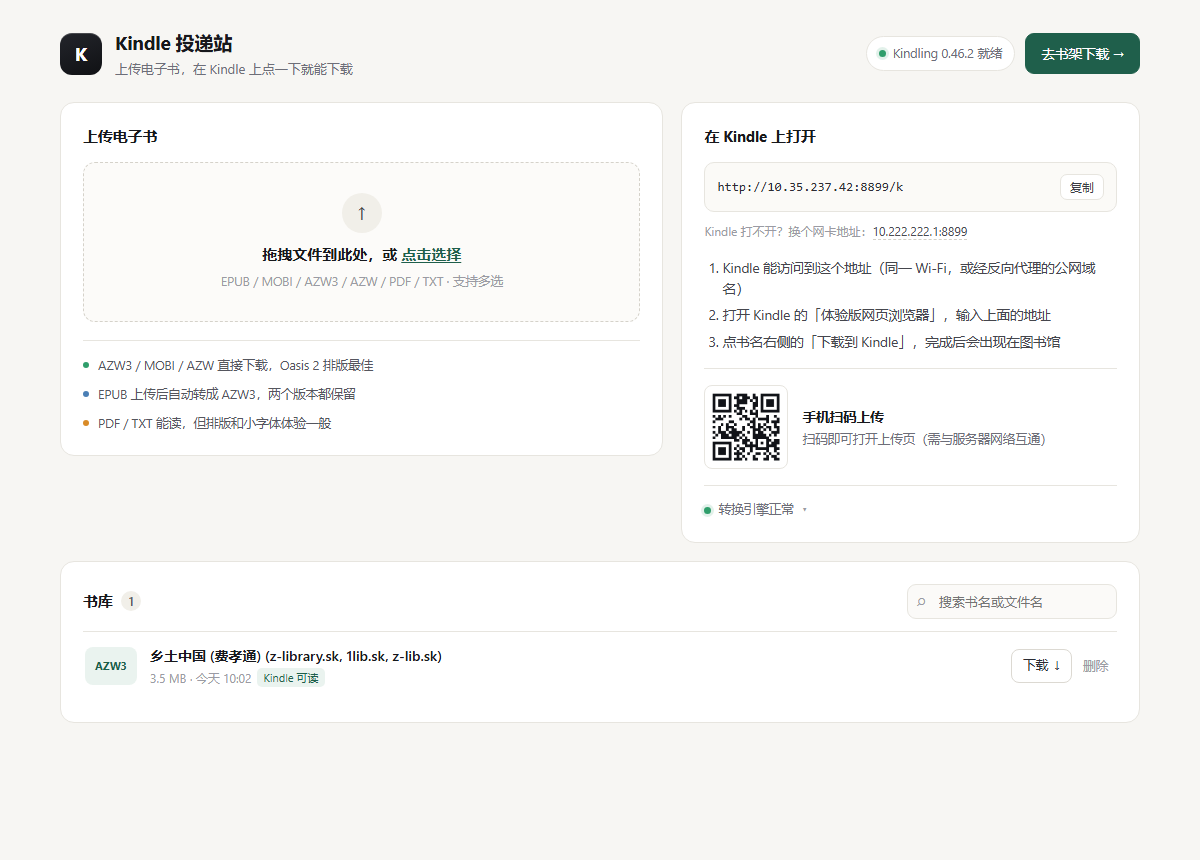
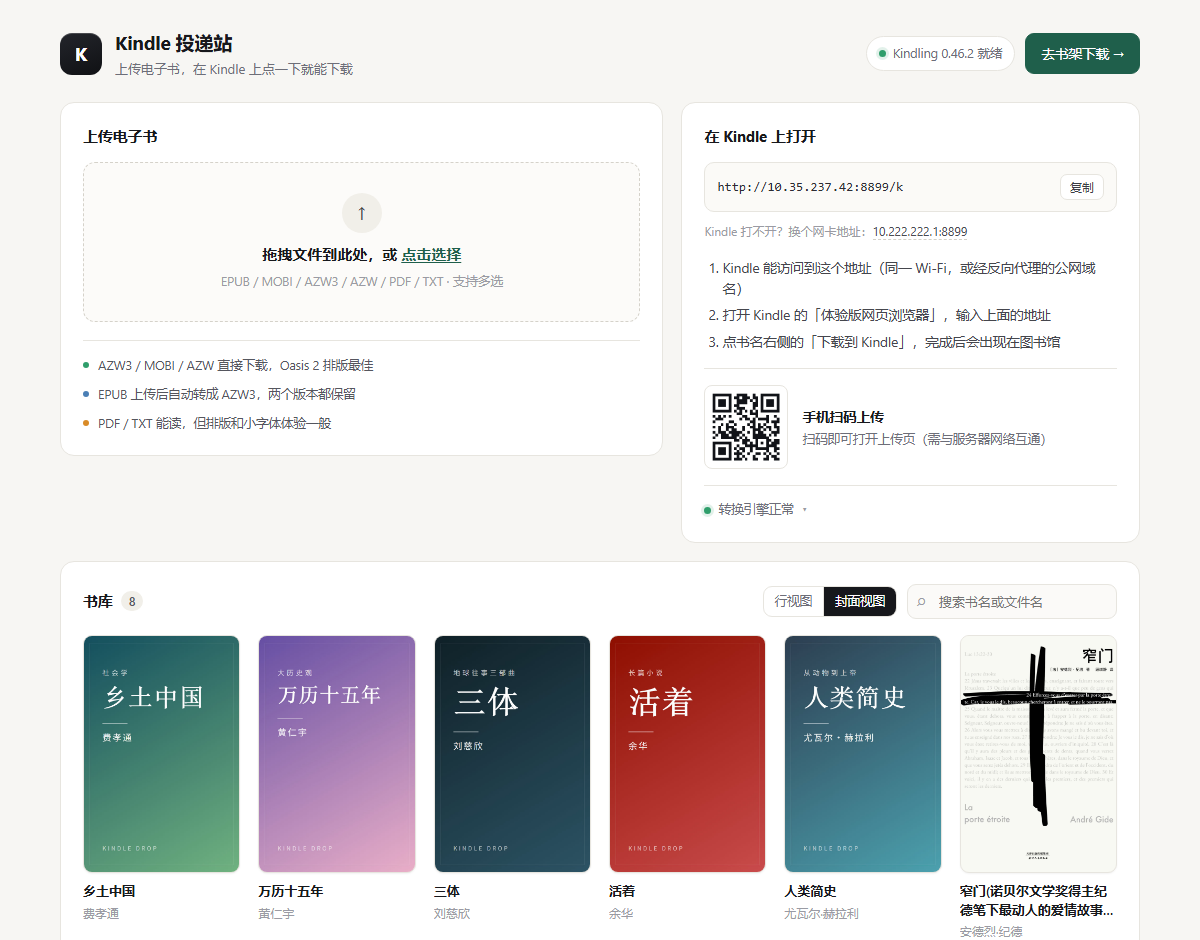
fix: Kindle 书架显示书内书名，不再是上传文件名
- 新增 displayTitle()：优先用书里解析出的书名，回落到文件名，顺带剥掉 (z-library.sk…) 广告尾
- 书架页、批量下载页、下载文件名三处统一改用它，搜索同时匹配书名与作者
- docs: 截图更新为传书 + 书架改版后的样子
- docs: 镜像来源说明以 ghcr 为主（Docker Hub 那侧要配 DOCKERHUB_TOKEN 才会同步）

diff --git a/server.js b/server.js
@@ -50,6 +50,24 @@ function titleFromName(filename) {
   return cleanName(base.replace(/[_]+/g, ' ').replace(/\s{2,}/g, ' ')) || '未命名';
 }
 
+/** 去掉盗版站挂在文件名后面的广告尾巴：(z-library.sk, 1lib.sk, z-lib.sk) */
+function stripAds(name) {
+  return String(name || '')
+    .replace(/\s*\((?:z-library|z-lib|1lib|libgen|anna'?s archive)[^)]*\)/gi, '')
+    .replace(/\s*\[(?:z-library|z-lib|1lib)[^\]]*\]/gi, '')
+    .replace(/\s+/g, ' ')
+    .trim();
+}
+
+/**
+ * 展示用书名：优先用从书里解析出来的书名（干净、没有广告尾巴），
+ * 解析不出来才回落到上传时的文件名。
+ */
+function displayTitle(rec) {
+  const fromMeta = rec.meta && rec.meta.title;
+  return stripAds(fromMeta || rec.title) || rec.title || '未命名';
+}
+
 /* ---------------- 封面 / 元数据 ---------------- */
 
 const coverPath = (id) => path.join(COVERS_DIR, `${id}.cover`);
@@ -256,14 +274,15 @@ app.get('/k', (req, res) => {
   const q = String(req.query.q || '').trim();
   const all = store.all().filter((f) => (f.files || []).length > 0);
   const list = q
-    ? all.filter((f) => (f.title + ' ' + f.originalName).toLowerCase().includes(q.toLowerCase()))
+    ? all.filter((f) =>
+        (displayTitle(f) + ' ' + f.title + ' ' + f.originalName).toLowerCase().includes(q.toLowerCase()))
     : all;
 
   const items = list.map((rec) => {
     const best = store.pickBest(rec);
     return {
       id: rec.id,
-      title: rec.title,
+      title: displayTitle(rec),
       format: best ? best.format : rec.format,
       label: best ? (FMT_LABEL[best.format] || best.format.toUpperCase()) : '?',
       size: best ? fmtBytes(best.size) : '-',
@@ -301,7 +320,7 @@ app.get('/k/download', (req, res) => {
     if (!best) continue;
     books.push({
       id: rec.id,
-      title: rec.title,
+      title: displayTitle(rec),
       label: FMT_LABEL[best.format] || best.format.toUpperCase(),
       size: fmtBytes(best.size),
       href: downloadHref(rec, best)
@@ -358,7 +377,8 @@ app.get('/api/qr', async (req, res) => {
 app.get('/api/files', (req, res) => {
   const q = String(req.query.q || '').trim().toLowerCase();
   let list = store.all();
-  if (q) list = list.filter((f) => (f.title + ' ' + f.originalName).toLowerCase().includes(q));
+  if (q) list = list.filter((f) =>
+    (displayTitle(f) + ' ' + f.title + ' ' + f.originalName).toLowerCase().includes(q));
 
   res.json({
     files: list.map((rec) => {
@@ -629,11 +649,11 @@ app.post('/api/config', async (req, res) => {
 
 /* ---------------- 下载 ---------------- */
 
-/** 下载文件名：优先用原始书名，去掉盗版站挂在标题后面的广告尾巴，并保证带正确后缀 */
+/** 下载文件名：优先用书里的书名，去掉盗版站挂在标题后面的广告尾巴，并保证带正确后缀 */
 function buildDownloadName(entry, rec) {
   const fmt = String(entry.format || '').toLowerCase();
-  let base = String(entry.name || rec.title || 'book').trim();
-  base = base.replace(/\s*\((?:z-library|z-lib|1lib|libgen|anna'?s archive)[^)]*\)/gi, '');
+  const fromMeta = rec.meta && rec.meta.title;
+  let base = stripAds(fromMeta || entry.name || rec.title || 'book');
   base = base.replace(/[\\/:*?"<>|\r\n\t]+/g, ' ').replace(/\s+/g, ' ').trim();
   if (fmt && !base.toLowerCase().endsWith(`.${fmt}`)) {
     base = base.replace(/\.[a-z0-9]{2,5}$/i, '') + `.${fmt}`;

diff --git a/README.md b/README.md
@@ -90,21 +90,14 @@ docker compose -f docker-compose.build.yml up -d --build
 
 ### 拉不动 ghcr.io？换地址
 
-镜像同时发布在两个仓库，内容完全一样，哪个快用哪个：
+镜像发布在 **ghcr.io**，公开、免登录。国内直连经常卡住，按下面顺序换前缀试，拉下来 retag 一下，原来的命令照旧能用：
 
-| 仓库 | 地址 |
-|---|---|
-| GitHub Container Registry | `ghcr.io/m964927/send-to-kindle:latest` |
-| Docker Hub | `docker.io/song19615/send-to-kindle:latest`（可简写 `song19615/send-to-kindle`） |
-
-两个都是公开镜像，不需要登录。国内访问 Docker Hub 通常比 ghcr.io 顺畅，先用它试：
+**免注册的公共前缀**（速度不保证，能用就行）：
 
 ```bash
-docker pull docker.io/song19615/send-to-kindle:latest
-docker tag  docker.io/song19615/send-to-kindle:latest ghcr.io/m964927/send-to-kindle:latest
+docker pull docker.m.daocloud.io/ghcr.io/m964927/send-to-kindle:latest
+docker tag  docker.m.daocloud.io/ghcr.io/m964927/send-to-kindle:latest ghcr.io/m964927/send-to-kindle:latest
 ```
-
-都不行就用下面的加速前缀，retag 之后原来的命令照旧能用。
 
 **毫秒镜像（1ms.run）**：需要在 [1ms.run](https://1ms.run/) 注册并创建 Docker 密钥，免费额度就够用。
 
@@ -114,12 +107,7 @@ docker pull ghcr.1ms.run/m964927/send-to-kindle:latest
 docker tag  ghcr.1ms.run/m964927/send-to-kindle:latest ghcr.io/m964927/send-to-kindle:latest
 ```
 
-**免注册的公共前缀**（速度不保证，能用就行）：
-
-```bash
-docker pull docker.m.daocloud.io/ghcr.io/m964927/send-to-kindle:latest
-docker tag  docker.m.daocloud.io/ghcr.io/m964927/send-to-kindle:latest ghcr.io/m964927/send-to-kindle:latest
-```
+**Docker Hub 备用**：`song19615/send-to-kindle:latest`。只有仓库里配了 `DOCKERHUB_TOKEN` 时 CI 才会同步过去，否则那边是旧版本——拉之前先确认 tag 的更新时间。
 
 compose 文件里也可以直接把 `image:` 换成加速地址，不写 tag 默认就是 `latest`。
 

diff --git a/部署到NAS.md b/部署到NAS.md
@@ -72,29 +72,14 @@ docker compose up -d
 
 ### 拉不动 ghcr.io 怎么办
 
-镜像同时发布在两处，内容完全一致，哪个快用哪个：
-
-| 仓库 | 地址 |
-| --- | --- |
-| GitHub Container Registry | `ghcr.io/m964927/send-to-kindle:latest` |
-| Docker Hub | `docker.io/song19615/send-to-kindle:latest` |
-
-两个都是公开镜像，**不用登录**。国内访问 Docker Hub 通常比 ghcr.io 顺畅，先试它：
+镜像主发布在 **ghcr.io**，公开、免登录。按顺序换前缀试，拉下来 retag 一下，compose 文件不用改：
 
 ```bash
-docker pull song19615/send-to-kindle:latest
-docker tag  song19615/send-to-kindle:latest ghcr.io/m964927/send-to-kindle:latest
-docker compose up -d
-```
-
-都不行就用加速前缀（拉下来 retag 成上面那个名字，compose 文件不用改）：
-
-```bash
-# 免注册的公共前缀
+# 1) 免注册的公共前缀
 docker pull docker.m.daocloud.io/ghcr.io/m964927/send-to-kindle:latest
 docker tag  docker.m.daocloud.io/ghcr.io/m964927/send-to-kindle:latest ghcr.io/m964927/send-to-kindle:latest
 
-# 或者毫秒镜像：需要先在 1ms.run 注册拿一个 mk- 开头的密钥，登录一次
+# 2) 或者毫秒镜像：需要先在 1ms.run 注册拿一个 mk- 开头的密钥，登录一次
 docker login ghcr.1ms.run -u 1ms
 docker pull ghcr.1ms.run/m964927/send-to-kindle:latest
 docker tag  ghcr.1ms.run/m964927/send-to-kindle:latest ghcr.io/m964927/send-to-kindle:latest
@@ -107,6 +92,8 @@ docker compose up -d
 ```yaml
     image: docker.m.daocloud.io/ghcr.io/m964927/send-to-kindle:latest
 ```
+
+> Docker Hub 上也有 `song19615/send-to-kindle:latest`，但仓库没配 `DOCKERHUB_TOKEN` 时 CI 不同步，那边可能是旧版本，用之前先看更新时间。
 
 ### 确认起来了
 
